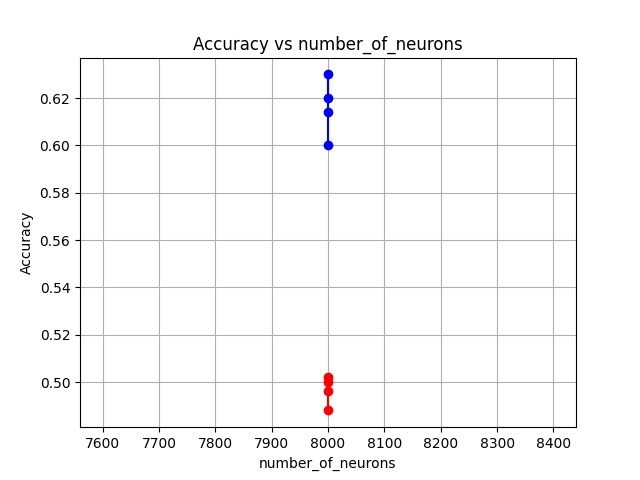
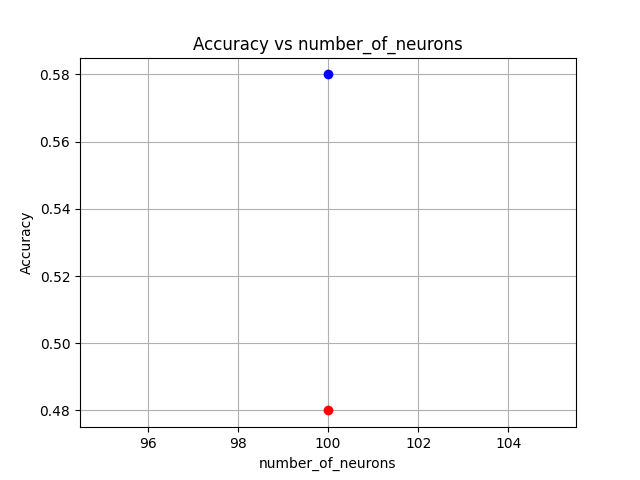
overlap plot

diff --git a/plots.py b/plots.py
@@ -5,7 +5,7 @@ from brain import *
 from tensorflow import keras
 import time
 
-def assemblies_and_weights(cap_size=200, beta=0.1):
+def assemblies_and_weights(cap_size=1000, beta=0.1):
     area = Area(no_classes=10, cap_size=cap_size, n=10000, in_n=784, beta=beta)
     (X_train, y_train),(X_test,y_test) = keras.datasets.mnist.load_data()
     
@@ -97,7 +97,7 @@ def benchmark_param(
         input = np.array([x.flatten() for x in X_train])
         input_test = np.array([x.flatten() for x in X_test])
 
-        area.training(input, no_rounds=no_of_rounds)
+        y = area.training(input, no_rounds=no_of_rounds)
         
         train_acc = area.score(input[:no_data_items], y_train[:no_data_items])
         acc = area.score(input_test[:no_test_data], y_test[:no_test_data])
@@ -106,6 +106,27 @@ def benchmark_param(
         items.append(item_callback(i))
         test_accuracies.append(acc)
         train_accuracy.append(train_acc)
+
+    fig2, ax = plt.subplots()
+    def overlap(g, h):
+        v = np.sum([a == 1 and b == 1 for (a, b) in zip(y[g], y[h])])
+        return v / len(y[g])
+    overlap_plot_matrix = np.zeros((10, 10))
+    for g in range(10):
+        for h in range(10):
+            overlap_plot_matrix[g,h] = overlap(g,h)
+    
+    overlap_plot_matrix /= overlap_plot_matrix.sum(axis = 0)
+    for c in range(10):
+        overlap_plot_matrix[c,c] = 1 - sum(np.concatenate([overlap_plot_matrix[c, :c], overlap_plot_matrix[c, c+1:]]))
+        
+    for i in range(10):
+        for j in range(10):
+            ax.text(i,j, round(overlap_plot_matrix[i,j], 2), va='center', ha='center')
+
+    ax.imshow(overlap_plot_matrix, cmap='cool',)
+    ax.set_title('Overlap between classes')
+    fig2.savefig('plots/overlap1.png')
 
     plt.figure()
     plt.plot(items, test_accuracies, 'ro-')
@@ -156,12 +177,12 @@ if __name__ == '__main__':
     # )
 
     best_neuron_count = benchmark_param(
-        area_callback=lambda i: Area(no_classes=10, cap_size=800, n=8000, in_n=784, beta=0.1),
-        item_callback=lambda i: 8000,
+        area_callback=lambda i: Area(no_classes=10, cap_size=30, n=100, in_n=784, beta=0.1),
+        item_callback=lambda i: 100,
         name="number_of_neurons",
-        no_data_items=500,
-        no_test_data=500,
-        no_iterations=4
+        no_data_items=100,
+        no_test_data=100,
+        no_iterations=1
     )
     
 

diff --git a/brain.py b/brain.py
@@ -24,7 +24,7 @@ class Area():
         self.beta = beta
         self.p_r = p_r
         self.p_q = p_q * self.cap_size / self.n
-        self.y: dict[list[int], list[int]] = {}
+        self.y: dict[int, list[int]] = {}
 
         # 0 - no connection, 1 - connection
         # Establishes initial connections betwen neurons in the brain area with prob p
@@ -62,7 +62,6 @@ class Area():
 
         bias = np.zeros(self.n)
         bias_penalty = -1
-        results = np.array([0.] * self.n)
         
         for i in range(self.no_classes):
             print(f"Training class {i} using {self.n} neurons and {no_rounds[i]} rounds")
@@ -72,7 +71,6 @@ class Area():
                 activations_t_1 = self._get_activations(in_class_activations, bias)
                 outer_prod = np.outer(in_class_activations, activations_t_1) * self.beta
                 self.weights = self.weights * (np.ones((len(in_class_activations), self.n)) + outer_prod)
-                results += activations_t_1
 
             self.y[i] = np.where(activations_t_1 > 0, 1, 0)
             self.weights /= self.weights.sum(axis=0)
